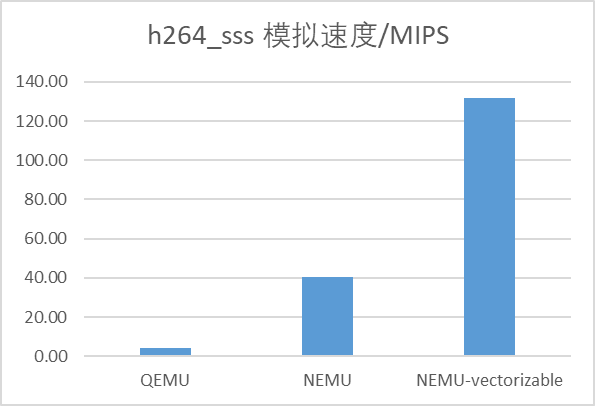
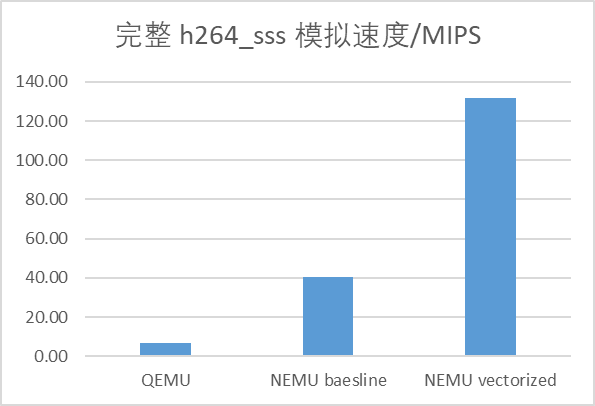
update content and figure for nemu-v

diff --git a/content/post/nemu-v/index.md b/content/post/nemu-v/index.md
@@ -12,7 +12,7 @@ projects: []
 date: "2024-08-09T00:00:00Z"
 
 # Date updated
-lastmod: "2024-08-09T00:00:00Z"
+lastmod: "2024-08-10T00:00:00Z"
 
 # Is this an unpublished draft?
 draft: false
@@ -43,12 +43,12 @@ categories:
 虽然目前已经有多个实现了 RISC-V Vector 1.0 的 ISA 模拟器，例如 Spike，QEMU 和 NEMU，但是这些实现的速度尚不足以满足高效的软硬件协同设计的需求。
 为了将软件修改、编译器修改后的性能反馈时间缩短到一天以内，我们对 NEMU 的 RISC-V Vector（RVV）实现进行了优化。
 我们克服了原有模拟器中存在的以下性能问题：
-- 对地址的冗余计算、检查和翻译
-- 利用控制流来实现掩码操作，导致宿主机分支预测错误较为频繁
+1) 对地址的冗余计算、检查和翻译；
+2) 利用控制流来实现掩码操作，导致宿主机分支预测错误较为频繁。
 
-此外，我们通过以下方法，使得编译器（GCC11）能将代码自动向量化，从而利用 X86 的 AVX 指令进行 RVV 的模拟：
-- 用位运算来实现掩码操作
-- 避免代码中出现 unbounded 的循环
+
+我们用位运算来实现掩码操作，并尽力避免代码中出现 unbounded 的循环，
+使得编译器（GCC11）能将代码自动向量化，从而利用 X86 的 AVX 指令进行 RVV 的模拟。
 
 最终，我们在 NEMU 上仿真 `h264_sss` 时 获得了 131 MIPS 的仿真速度，作为对比，而 QEMU 的速度不超过 7 MIPS。
 我们的方法不局限于 RISC-V Vector 指令集，也可以用于优化 ARM SVE 等其他向量指令集的模拟。
@@ -84,21 +84,21 @@ GCC 和 llvm 都不同程度地支持了自动向量化。
 我们发现在仿真`h264`的前 2G 指令时，QEMU 的速度只有约 2 MIPS，而 NEMU 可以达到 8 MIPS。
 下图是 QEMU 运行 `h264` 时的 perf report，可以看到 91% 的时间都花在了 `vext_ldst_us` 上。
 其中，44% 的时间花在了 `mmu_look_up`。
-![Perf report of QEMU running h264](qemu-vector-hotspot2.png)
+![](qemu-vector-hotspot.png)
 我们阅读代码发现，QEMU 的 MMU 实现并不高效，这可能与 QEMU 要考虑更多的指令集、访存模式、页面大小有关。
 例如对 TLB 的访问的 common path 上需要进行多次链式访存：
-![QEMU mmu](qemu-mmu-lookup.png)
+![](qemu-mmu-lookup.png)
 
-![QEMU TLB entry](qemu-tlb_entry.png)
+![](qemu-tlb_entry.png)
 
 为此，余子濠博士在 NEMU 中实现了一个更高效的 MMU，从 guest 的虚地址到 host
 的虚地址的转化的 common path 只需要执行如图所示的几行代码。
 
-![NEMU translate](nemu-tlb.png)
+![](nemu-tlb.png)
 
 # 动机
 
-即使如此，NEMU 7-8 MIPS 的仿真速度也远远无法满足我们的软硬件迭代需求：
+即使如此，NEMU 的仿真速度也远远无法满足我们的软硬件迭代需求：
 完整运行 `SPECCPU 2006` 的 `h264` 需要约 18h，生成一次 checkpoint 需要运行 2 次（36h），
 这使得 day 1 对软件/编译器/编译选项的一次修改要等到 day 3 才能得到性能反馈。
 
@@ -111,72 +111,75 @@ GCC 和 llvm 都不同程度地支持了自动向量化。
 也就是说，指令集模拟器对这一类指令的实现比硬件更低效。
 
 在元素粒度进行模拟导致了以下问题：
-- 目前所有的实现都为每一个元素进行了权限检查和地址翻译，这在大部分情况下是不必要的
-- 用控制指令实现掩码操作导致了难以预测的分支，从而产生了更多的分支预测错误
-- 低位宽的操作没有充分利用宿主机的计算宽度（8 bit VS. 64 bit）
+1) 目前所有的实现都为每一个元素进行了权限检查和地址翻译，这在大部分情况下是不必要的；
+2) 用控制指令实现掩码操作导致了难以预测的分支，从而产生了更多的分支预测错误；
+3) 低位宽的操作没有充分利用宿主机的计算宽度（经常使用 64 bit 的运算单元模拟 8 bit 的操作）。
 
 
 # 优化
 
 针对上述问题，我们给出了以下优化思路：
-- 优化1：对于数据在内存中连续的指令，在 TLB hit 且不跨页的情况下只进行一次地址翻译和权限检查
-- 优化2：用 `and` 和 `or` 来手动实现掩码操作，避免引入数据依赖的控制流
-- 优化3：尽可能使用 bounded loops，使得循环可以被编译器自动向量化
+1) 对于数据在内存中连续的指令，在 TLB hit 且不跨页的情况下只进行一次地址翻译和权限检查；
+2) 用位运算来手动实现掩码操作，避免引入数据依赖的控制流，并使得代码更容易被自动向量化；
+3) 尽可能使用 bounded loops，使得循环更容易被自动向量化。
+
 
 # 实验
 
 ## Setup
 
 我们运行测试的机器是 7950x3d。
-我们进行性能测试的对象是 SPECint 2006 中可以自动向量化的子项，包括 `hmmer` 和 `h264` 。
+我们进行性能测试的对象是 SPECint 2006 中可以自动向量化的子项，`h264` 。
 用于编译 SPECCPU 2006 的工具链是 RISC-V GCC 15，仅修改了 cost model 来适配香山处理器。
 用于编译 NEMU 的工具链是 GCC 11 ……emmm，为什么用这个版本一言难尽，不过应该对实验结果影响不大。
 为了方便获取数据，我们在做性能 breakdown 时使用仿真前 2G 指令的数据。
-在头对头比较时，我们会报告完整运行 SPECCCPU 子项的仿真时间。
+在头对头比较时，我们会报告完整运行 `h264` 的仿真时间。
 
 ## 代码对比
 
 如图所示，在原本的 NEMU 中，掩码生成逻辑通过 `continue` 实现（红框），
 并且为每一个元素生成一个访存操作（`rtl_lm`），每次操作中都会包含权限检查和地址翻译。
-![slow vle](slow_vle.png)
+![](slow_vle.png)
 
 而在重写后的快速 `vle/vse` 中，我们只处理 TLB hit 且不跨页的情况，
 在进行一次翻译之后，我们就能拿到访存操作对应的 host 地址，
 这部分就不展开。
 然后，我们根据 eew 生成和数据位宽一样宽的掩码操作
 （我感觉这里有更简洁的写法，不过 CoPilot 生成出来我就不想管了）：
-![fast mask gen](fast-mask-gen.png)
+![](fast-mask-gen.png)
 
 最后，我们用生成的全位宽掩码手动实现 `RVV` 的掩码功能，并 `memcpy` 到寄存器堆/内存。
 注意，这里的 `RVV_AGNOSTIC` 是静态确定的，因此这里的 `if-else` 不会生成对应的分支指令。
-![fast masked load](fast-masked-load.png)
+![](fast-masked-load.png)
 
 **汇编代码赏析**，好吧，前面的 C 代码都可以不看，主要是想秀一下汇编，编译选项需要开启`-flto -ftree-vectorize -march=native`。
 这里是全位宽掩码生成的一部分代码：
-![asm mask gen](asm-mask-gen.png)
+![](asm-mask-gen.png)
 
 下面是掩码操作部分，改为了 bounded loop 之后就可以向量化：
-![asm mask op](asm-mask-op.png)
+
+![](asm-mask-op.png)
 
 
 ## 头对头性能比较
 
-![h264 sss mips](h264_mips.png)
+![](h264_mips.png)
 
 ## 性能 breakdown
 
 然后，我们对性能收益的来源进行分析，发现性能收益来自 3 方面：
+1) 显而易见的是，更少的权限检查和地址翻译；
+2) 向量化提高了代码密度；
+3) 更少的分支预测错误。
 
-- 显而易见的是，更少的权限检查和地址翻译
-- 向量化提高了代码密度
-- 更少的分支预测错误
 
 我们将 NEMU 分为 3 种版本：
-- baseline：优化前的 NEMU
-- vectorizable：优化后的 NEMU，但是没有开启自动向量化 `-ftree-vectorize`
-- vectorized：优化后的 NEMU，开启了自动向量化
+1) baseline：优化前的 NEMU；
+2) vectorizable：优化后的 NEMU，但是没有开启自动向量化 `-ftree-vectorize`；
+3) vectorized：优化后的 NEMU，开启了自动向量化。
 
-![h264 early mips](h264_early_mips.png)
+
+![](h264_early_mips.png)
 
 上图表明，即使未经自动向量化，在 h264_sss 的开始 2G 指令中，
 我们的优化可以让 NEMU 的速度提升到原来的 4 倍。
@@ -188,8 +191,13 @@ GCC 和 llvm 都不同程度地支持了自动向量化。
 对 `branch-misses` 的贡献中，`vst` 排第一，`isa_mmu_check` 排第二。
 其中，在 `vst` 内部，实现掩码相关操作的 `continue` 贡献了全局 10% 的分支预测错误。
 
-![h264 early branch misses](branch-misses.png)
-![vst branch misses](vst-continue-10pct.png)
+![](branch-misses.png)
+![](vst-continue-10pct.png)
 
 作为对比，我们的优化后的代码中，`branch-misses` 降低到了约 330M：
-![vectorized branch misses](vectorized-branch-misses.png)
+![](vectorized-branch-misses.png)
+
+# 致谢
+
+NEMU 的主体框架由余子濠博士完成，RVV 的大量实现由张梓悦同学完成。
+笔者仅完成了针对 RVV 访存的 common case 的优化工作。
